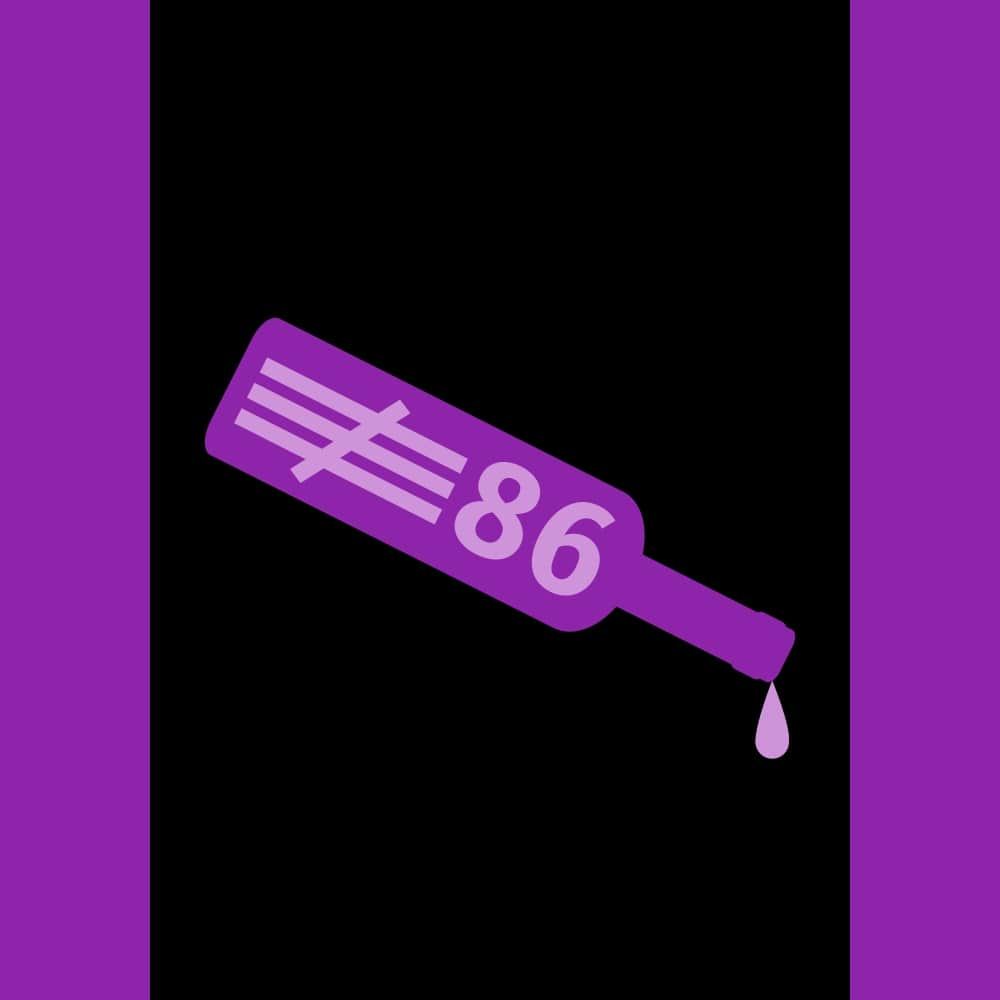
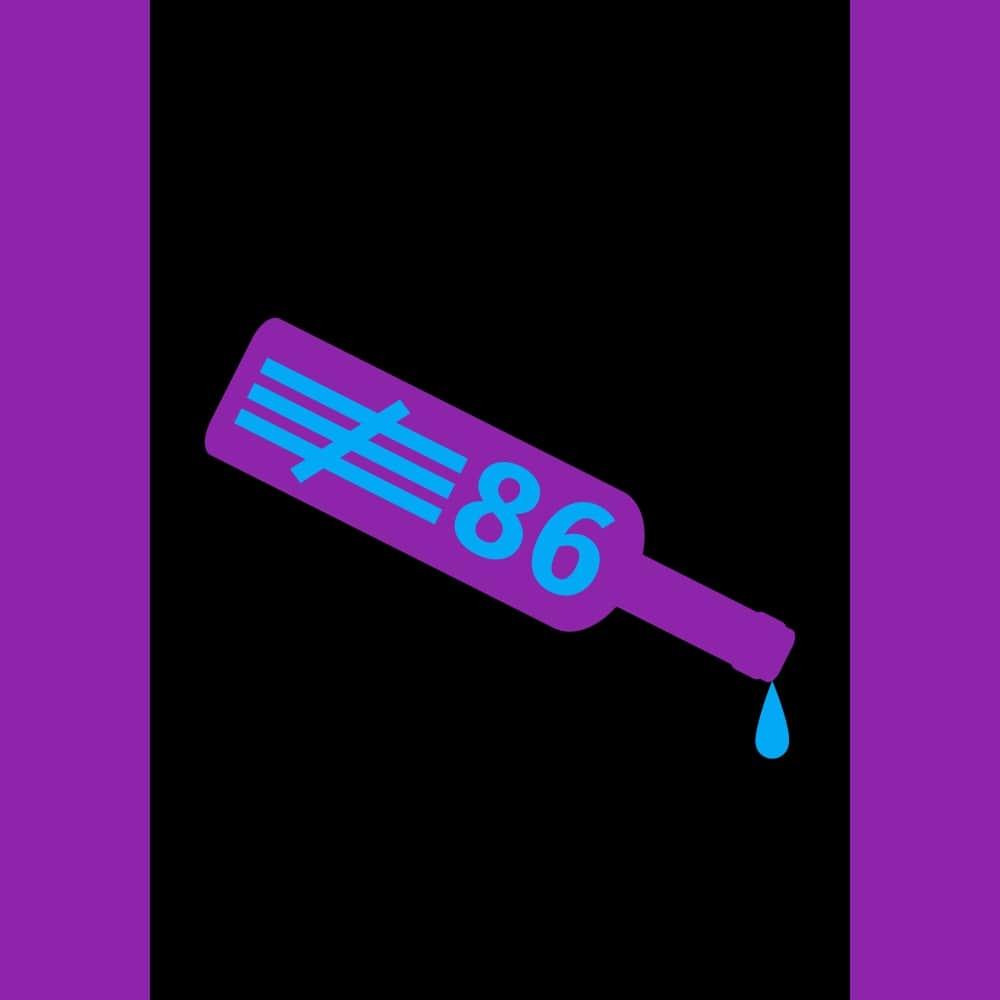
add: work on display pics for projects

Changed region(s): [[0.217, 0.341, 0.62, 0.62], [0.744, 0.682, 0.806, 0.775]]

diff --git a/src/data/index.js b/src/data/index.js
@@ -1,14 +1,16 @@
 import { GitHub } from "@material-ui/icons"
-import mapAndChartsLight from './mapAndChartsLight.jpg'
-import mapAndChartsDark from './mapAndChartsDark.jpg'
 import curExCLight from './curExCLight.jpg'
 import curExCDark from './curExCDark.jpg'
+import mapAndChartsLight from './mapAndChartsLight.jpg'
+import mapAndChartsDark from './mapAndChartsDark.jpg'
 import transLinkLight from './transLinkLight.jpg'
 import transLinkDark from './transLinkDark.jpg'
 import jungleLight from './jungleLight.jpg'
 import jungleDark from './jungleDark.jpg'
 import never86Light from './never86Light.jpg'
 import never86Dark from './never86Dark.jpg'
+import schedulerLight from './schedulerLight.jpg'
+import schedulerDark from './schedulerDark.jpg'
 import MailOutlineIcon from '@material-ui/icons/MailOutline';
 import { 
   mdiLanguageRubyOnRails,
@@ -214,8 +216,8 @@ const projects = [
     demo: null,
     repo: 'https://github.com/jswelsh/scheduler',
     image: {
-      light: null,
-      dark: null
+      light: schedulerLight,
+      dark: schedulerDark
     },
     technologies: [
       {...react}, 
